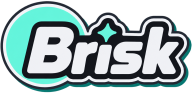
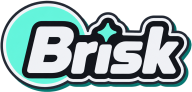
web: review fixes for the game panel dialogs, card pop-in and wordmark
- a local screenshot in the lightbox fetches only itself and its two neighbours, not the whole list
- a screenshot that fails to load says so (and is tried again on the next open or step)
- the achievements list in the modal is focusable and named, so it can be scrolled by keyboard;
  Escape in its search clears the text first, then closes
- View all shows only when there are more achievements than the preview
- store screenshots are keyed by index (duplicate URLs no longer throw)
- the shelf pop-in never starts a tween after its effect was torn down
- brand.png is exactly 2x of its 96x46 display size
- axe fixture: 120 achievements, so the scan sees the list scroll

diff --git a/web/src/modules/library/GameDetail.browser.test.ts b/web/src/modules/library/GameDetail.browser.test.ts
@@ -279,7 +279,7 @@ describe('GameDetail', () => {
 
   const thumbs = [0, 1, 2].map((i) => `https://cdn.example.test/ss_0${i}.600x338.jpg`);
   const shotsInfo: GameInfo = { ...info, screenshots: thumbs, screenshotsFull: thumbs.map((u) => u.replace('600x338', '1920x1080')) };
-  const big = () => page.getByRole('dialog', { name: /^Screenshot \d of \d$/ });
+  const big = () => page.getByRole('dialog', { name: /^Screenshot \d+ of \d+$/ });
 
   it('a store screenshot opens a lightbox with the full-size image; arrows, buttons and Escape', async () => {
     vi.spyOn(api, 'gameInfo').mockResolvedValue(shotsInfo);
@@ -363,7 +363,8 @@ describe('GameDetail', () => {
     await userEvent.fill(search, 'zzz');
     await expect.element(achDialog().getByText('No matches')).toBeInTheDocument();
     expect(items()).toHaveLength(0);
-    await userEvent.keyboard('{Escape}');
+    await userEvent.keyboard('{Escape}'); // clears the search
+    await userEvent.keyboard('{Escape}'); // closes
     await expect.element(achDialog()).not.toBeInTheDocument();
     await expect.element(page.getByRole('dialog', { name: 'Portal 2' })).toBeInTheDocument();
     await expect.poll(() => document.activeElement).toBe(open.element());
@@ -411,5 +412,87 @@ describe('GameDetail', () => {
     } finally {
       await page.viewport(1280, 800);
     }
+  });
+
+  // Tiles never scroll into view here (a stub observer), so every fetch comes from the lightbox.
+  const noObserver = () => vi.stubGlobal('IntersectionObserver', class { observe() {} disconnect() {} unobserve() {} });
+  const ten: GameLocal = { screenshots: Array.from({ length: 10 }, (_, i) => `s${i + 1}.png`), saves: null };
+
+  it('a local screenshot fetches only itself and its neighbours, then the next one on a step', async () => {
+    noObserver();
+    try {
+      vi.spyOn(api, 'gameInfo').mockResolvedValue(none);
+      vi.spyOn(api, 'gameLocal').mockResolvedValue(ten);
+      const shot = vi.spyOn(api, 'screenshot').mockImplementation(async () => blobUrl());
+      await render(GameDetail, { props: props(game) });
+      await userEvent.click(page.getByRole('button', { name: 'Open Portal 2 screenshot 3 from this PC' }));
+      await expect.element(big()).toHaveAccessibleName('Screenshot 3 of 10');
+      await expect.poll(() => shot.mock.calls.map((c) => c[1]).sort()).toEqual(['s2.png', 's3.png', 's4.png']);
+      await userEvent.keyboard('{ArrowRight}');
+      await expect.poll(() => shot.mock.calls.map((c) => c[1]).sort()).toEqual(['s2.png', 's3.png', 's4.png', 's5.png']);
+      await expect.element(big().getByRole('img')).toHaveAttribute('src', expect.stringMatching(/^blob:/));
+    } finally {
+      vi.unstubAllGlobals();
+    }
+  });
+
+  it('a local screenshot that fails to load says so, and is tried again on the next open', async () => {
+    noObserver();
+    try {
+      vi.spyOn(api, 'gameInfo').mockResolvedValue(none);
+      vi.spyOn(api, 'gameLocal').mockResolvedValue({ screenshots: ['only.png'], saves: null });
+      const shot = vi.spyOn(api, 'screenshot').mockRejectedValueOnce(new Error('gone')).mockImplementation(async () => blobUrl());
+      await render(GameDetail, { props: props(game) });
+      const open = page.getByRole('button', { name: 'Open Portal 2 screenshot 1 from this PC' });
+      await userEvent.click(open);
+      await expect.element(big().getByRole('status')).toHaveTextContent('Could not load this screenshot');
+      await userEvent.keyboard('{Escape}');
+      await expect.element(big()).not.toBeInTheDocument();
+      await userEvent.click(open);
+      await expect.element(big().getByRole('img')).toHaveAttribute('src', expect.stringMatching(/^blob:/));
+      expect(shot).toHaveBeenCalledTimes(2);
+    } finally {
+      vi.unstubAllGlobals();
+    }
+  });
+
+  it('Escape in the achievement search clears the text first, then closes the modal', async () => {
+    vi.spyOn(api, 'gameInfo').mockResolvedValue(info);
+    vi.spyOn(api, 'gameAchievements').mockResolvedValue(many);
+    await render(GameDetail, { props: props(game) });
+    await userEvent.click(page.getByRole('button', { name: 'View all 9 achievements' }));
+    const search = achDialog().getByRole('searchbox', { name: 'Search achievements' });
+    await userEvent.fill(search, 'zzz');
+    await userEvent.keyboard('{Escape}');
+    await expect.element(search).toHaveValue('');
+    await expect.element(achDialog()).toBeInTheDocument();
+    await expect.element(page.getByRole('dialog', { name: 'Portal 2' })).toBeInTheDocument();
+    await userEvent.keyboard('{Escape}');
+    await expect.element(achDialog()).not.toBeInTheDocument();
+    await expect.element(page.getByRole('dialog', { name: 'Portal 2' })).toBeInTheDocument();
+  });
+
+  it('the achievement list in the modal can take focus to scroll, and is named', async () => {
+    vi.spyOn(api, 'gameInfo').mockResolvedValue(info);
+    vi.spyOn(api, 'gameAchievements').mockResolvedValue(many);
+    await render(GameDetail, { props: props(game) });
+    await userEvent.click(page.getByRole('button', { name: 'View all 9 achievements' }));
+    await expect.element(achDialog().getByRole('list', { name: 'Achievements' })).toHaveAttribute('tabindex', '0');
+  });
+
+  it('View all shows only when there are more achievements than the preview', async () => {
+    vi.spyOn(api, 'gameInfo').mockResolvedValue(info);
+    vi.spyOn(api, 'gameAchievements').mockResolvedValue(ach); // 2 in the list
+    await render(GameDetail, { props: props(game) });
+    await expect.element(page.getByText('First Steps')).toBeInTheDocument();
+    expect(page.getByRole('heading', { name: 'Achievements' }).elements()).toHaveLength(1);
+    expect(page.getByRole('button', { name: /^View all/ }).elements()).toHaveLength(0);
+  });
+
+  it('two store screenshots with the same URL render without a key error', async () => {
+    const dup = 'https://cdn.example.test/same.jpg';
+    vi.spyOn(api, 'gameInfo').mockResolvedValue({ ...info, screenshots: [dup, dup] });
+    await render(GameDetail, { props: props(game) });
+    await expect.element(page.getByRole('button', { name: 'Open Portal 2 screenshot 2' })).toBeInTheDocument();
   });
 });

diff --git a/web/src/modules/library/GameDetail.svelte b/web/src/modules/library/GameDetail.svelte
@@ -54,6 +54,7 @@
   // object URL as its tile scrolls into view (at most 12 fetches at once); all URLs are revoked on unmount or game change.
   let local = $state<GameLocal | null>(null);
   let shotUrl = $state<Record<string, string>>({});
+  let shotBad = $state<Record<string, true>>({}); // failed fetches: the lightbox says so; the next want() tries again
   let gen = 0;
   let made: string[] = [];
   let queue: string[] = [];
@@ -74,6 +75,7 @@
       made.forEach((u) => URL.revokeObjectURL(u));
       made = [];
       shotUrl = {};
+      shotBad = {};
     };
   });
   function pump() {
@@ -85,7 +87,7 @@
         .screenshot(appid, name)
         .then(
           (u) => (g === gen ? (made.push(u), (shotUrl[name] = u)) : URL.revokeObjectURL(u)),
-          () => {},
+          () => g === gen && (asked.delete(name), (shotBad[name] = true)),
         )
         .finally(() => (active--, pump()));
     }
@@ -93,6 +95,7 @@
   const want = (name: string) => {
     if (asked.has(name)) return;
     asked.add(name);
+    delete shotBad[name];
     queue.push(name);
     pump();
   };
@@ -112,17 +115,20 @@
 
 
   // The lightbox: which list and where in it. Store shots use the full-size URL when the server sent one; the host's
-  // own reuse their object URL (fetched now if the tile has not scrolled into view yet).
+  // own reuse their object URL; the shown one and its two neighbours are fetched now if their tiles have not scrolled
+  // into view (never the whole list: up to 60 files of 25 MiB, held until the panel closes).
   let box = $state<{ kind: 'store' | 'local'; i: number } | null>(null);
   const storeShots = $derived.by(() => {
     const v = info && info !== 'none' ? info : null;
     return (v?.screenshots ?? []).map((src, i) => ({ src: v?.screenshotsFull?.[i] || src, alt: `${game.name} screenshot ${i + 1}` }));
   });
-  const localShots = $derived((local?.screenshots ?? []).map((name, i) => ({ src: shotUrl[name] ?? '', alt: `${game.name} screenshot ${i + 1} from this PC` })));
-  function show(kind: 'store' | 'local', i: number) {
-    box = { kind, i };
-    if (kind === 'local') local?.screenshots.forEach((n) => want(n));
-  }
+  const localShots = $derived((local?.screenshots ?? []).map((name, i) => ({ src: shotUrl[name] ?? '', failed: !!shotBad[name], alt: `${game.name} screenshot ${i + 1} from this PC` })));
+  const show = (kind: 'store' | 'local', i: number) => (box = { kind, i });
+  $effect(() => {
+    if (box?.kind !== 'local' || !local?.screenshots.length) return;
+    const l = local.screenshots;
+    for (const d of [-1, 0, 1]) want(l[(box.i + d + l.length) % l.length]);
+  });
   let allAch = $state(false);
   const PREVIEW = 6;
 </script>
@@ -153,7 +159,7 @@
             {#if storeShots.length}
               <h3>Screenshots</h3>
               <div class="shots">
-                {#each storeShots as s, i (s.src)}<button class="shot" aria-label="Open {s.alt}" aria-haspopup="dialog" onclick={() => show('store', i)}><img src={info.screenshots[i]} alt={s.alt} loading="lazy" decoding="async" /></button>{/each}
+                {#each storeShots as s, i (i)}<button class="shot" aria-label="Open {s.alt}" aria-haspopup="dialog" onclick={() => show('store', i)}><img src={info.screenshots[i]} alt={s.alt} loading="lazy" decoding="async" /></button>{/each}
               </div>
             {/if}
           {/if}
@@ -179,7 +185,7 @@
         <!-- achievements: the first few, the rest in their own modal -->
         {#if ach && ach.total > 0}
           <section class="sec ach">
-            <div class="h"><h3>Achievements</h3>{#if ach.list.length}<button class="btn ghost more" aria-haspopup="dialog" aria-label="View all {ach.list.length} achievements" onclick={() => (allAch = true)}>View all</button>{/if}</div>
+            <div class="h"><h3>Achievements</h3>{#if ach.list.length > PREVIEW}<button class="btn ghost more" aria-haspopup="dialog" aria-label="View all {ach.list.length} achievements" onclick={() => (allAch = true)}>View all</button>{/if}</div>
             <ul class="alist">
               {#each ach.list.slice(0, PREVIEW) as a (a.id)}
                 <li class:locked={a.unlockedAt === null}>

diff --git a/web/src/modules/library/Lightbox.svelte b/web/src/modules/library/Lightbox.svelte
@@ -1,10 +1,11 @@
 <script lang="ts">
   // A screenshot at full size over the game panel: previous / next (buttons and arrow keys, wrapping), Escape or Close
-  // to leave. Focus is trapped by Bits and goes back to the thumbnail that opened it. `src` '' = still loading.
+  // to leave. Focus is trapped by Bits and goes back to the thumbnail that opened it. `src` '' = still loading, or
+  // `failed`.
   import { Dialog } from 'bits-ui';
   import Icon from '../../ui/Icon.svelte';
 
-  let { shots, index = $bindable(), onclose }: { shots: { src: string; alt: string }[]; index: number; onclose: () => void } = $props();
+  let { shots, index = $bindable(), onclose }: { shots: { src: string; alt: string; failed?: boolean }[]; index: number; onclose: () => void } = $props();
 
   let open = $state(true);
   const back = document.activeElement instanceof HTMLElement ? document.activeElement : null;
@@ -37,7 +38,7 @@
         <Dialog.Close class="btn ghost" aria-label="Close screenshot">Close</Dialog.Close>
       </div>
       <figure>
-        {#if cur.src}<img src={cur.src} alt={cur.alt} />{:else}<p class="lab" role="status">Loading…</p>{/if}
+        {#if cur.src}<img src={cur.src} alt={cur.alt} />{:else}<p class="lab" role="status">{cur.failed ? 'Could not load this screenshot' : 'Loading…'}</p>{/if}
         {#if n > 1}
           <button class="nav prev" aria-label="Previous screenshot" onclick={() => step(-1)}><Icon name="chev" size={20} /></button>
           <button class="nav next" aria-label="Next screenshot" onclick={() => step(1)}><Icon name="chev" size={20} /></button>

diff --git a/web/src/shell/Sidebar.svelte b/web/src/shell/Sidebar.svelte
@@ -29,7 +29,7 @@
 </script>
 
 <aside class="side">
-  <div class="brand"><img src="/brand.png" alt="Brisk" width="96" height="47" /></div>
+  <div class="brand"><img src="/brand.png" alt="Brisk" width="96" height="46" /></div>
   <nav aria-label="Main" bind:this={nav}>
     {#each live as m (m.id)}
       {@const r = m.routes[0]}
@@ -48,9 +48,9 @@
 <style>
   .side { width: 218px; flex: 0 0 auto; height: 100vh; position: sticky; top: 0; background: color-mix(in srgb, var(--panel) 82%, transparent); backdrop-filter: blur(10px); border-right: 1px solid var(--line); padding: 14px 10px; display: flex; flex-direction: column; gap: 2px; }
   nav { display: contents; }
-  /* the wordmark (web/public/brand.png, 2x); width and height are set so it never shifts the nav */
+  /* the wordmark (web/public/brand.png, exactly 2x: 192x92); width and height are set so it never shifts the nav */
   .brand { display: flex; align-items: center; padding: 0 4px 8px; }
-  .brand img { display: block; width: 96px; height: 47px; }
+  .brand img { display: block; width: 96px; height: 46px; }
   .nav { display: flex; align-items: center; gap: 10px; padding: 7px 10px; border-radius: 10px; color: var(--muted); transition: background .18s, color .18s, transform .18s var(--ease); }
   a.nav:hover { background: var(--panel2); color: var(--fg); transform: translateX(2px); }
   .nav[aria-current='page'] { color: var(--fg); position: relative; }

diff --git a/web/src/modules/library/AchievementsDialog.svelte b/web/src/modules/library/AchievementsDialog.svelte
@@ -33,10 +33,13 @@
       <div class="top">
         <Dialog.Title class="rs-t">{name} achievements</Dialog.Title>
         <Dialog.Description class="lab">{ach.unlocked} of {ach.total} unlocked</Dialog.Description>
-        <input type="search" bind:value={q} placeholder="Search" aria-label="Search achievements" autocomplete="off" />
+        <!-- Escape with text clears it (as the Library search); on an empty box it closes the dialog -->
+        <input type="search" bind:value={q} placeholder="Search" aria-label="Search achievements" autocomplete="off" onkeydown={(e) => e.key === 'Escape' && q && (e.preventDefault(), e.stopPropagation(), (q = ''))} />
       </div>
       {#if shown.length}
-        <ul>
+        <!-- focusable so the keyboard (and Safari) can scroll it: a scrolling region needs a tab stop (axe scrollable-region-focusable) -->
+        <!-- svelte-ignore a11y_no_noninteractive_tabindex -->
+        <ul tabindex="0" aria-label="Achievements">
           {#each shown as a (a.id)}
             <li class:locked={a.unlockedAt === null}>
               {#if a.icon}<img src={a.icon} alt="" loading="lazy" decoding="async" />{:else}<span class="ph"></span>{/if}

diff --git a/web/src/modules/library/Shelf.svelte b/web/src/modules/library/Shelf.svelte
@@ -52,14 +52,16 @@
     const p = pop;
     if (!p.n || performance.now() - p.at > 300) return;
     let off = () => {};
+    let stop = false; // a newer pop or an unmount before tick(): never start a tween nobody can cancel
     void tick().then(() => {
+      if (stop) return;
       const els = [...(section?.querySelectorAll<HTMLElement>('.slot, .grid > [data-appid]') ?? [])].filter((e) => {
         const r = e.getBoundingClientRect();
         return !e.style.viewTransitionName && r.bottom > 0 && r.top < innerHeight && r.right > 0 && r.left < innerWidth;
       });
       off = cardsIn(els.slice(0, 24));
     });
-    return () => off();
+    return () => ((stop = true), off());
   });
   const page = (dir: number) => row?.scrollBy({ left: dir * Math.max(CARD + GAP, row.clientWidth - 2 * (CARD + GAP)), behavior: 'smooth' });
   const toggle = () => {

diff --git a/docs/ui-notes.md b/docs/ui-notes.md
@@ -404,8 +404,9 @@ All need the usual auth. The games, info, achievements and news routes also take
   `/screenshots/{name}` serves a name only when it equals an entry of that listing (never joined from the request
   otherwise), opened with `O_NOFOLLOW | O_NONBLOCK`, regular files only, read capped at 25 MiB. An `<img src>` cannot send
   the auth headers, so the page fetches each image with them and shows a blob URL (`URL.createObjectURL`), revoked
-  when the panel closes or the game changes. The lightbox reuses that blob URL (fetching the rest of the list when it
-  opens on one that has not scrolled into view). The cloud-save summary is counts only (files, bytes, newest mtime; at
+  when the panel closes or the game changes. The lightbox reuses that blob URL and fetches only the shown shot and its two
+  neighbours when their tiles have not scrolled into view; a failed fetch shows "Could not load this screenshot" and is
+  tried again on the next open or step. The cloud-save summary is counts only (files, bytes, newest mtime; at
   most 10 000 entries, depth 8); file names and contents never leave the host.
 - Update state (`update` on installed games: `needed`, `running` or none) comes from `StateFlags` in
   `appmanifest_*.acf`. Seen on this host: only 4 (fully installed), on all 10 manifests. The other bits are from
@@ -437,7 +438,7 @@ All need the usual auth. The games, info, achievements and news routes also take
   names are skipped. This replaces the CSS `.enter` entrance the first 8 cards of a shelf had.
 - Icons: `web/public/favicon-32.png`, `favicon.png` (64), `favicon-192.png` and `apple-touch-icon.png` (180, opaque
   #0e1015) are drawn from `assets/favicon.svg` (`rsvg-convert -w N -h N assets/favicon.svg -o ...`; the touch icon adds
-  the background and padding). The sidebar wordmark is `web/public/brand.png` (192x93, shown at 96x47), cut from
+  the background and padding). The sidebar wordmark is `web/public/brand.png` (192x92, shown at 96x46), cut from
   `assets/logo.png` through an SVG wrapper. The sidebar has no narrow mode: on a phone it still takes 218 px.
 
 ### Notes and tags
